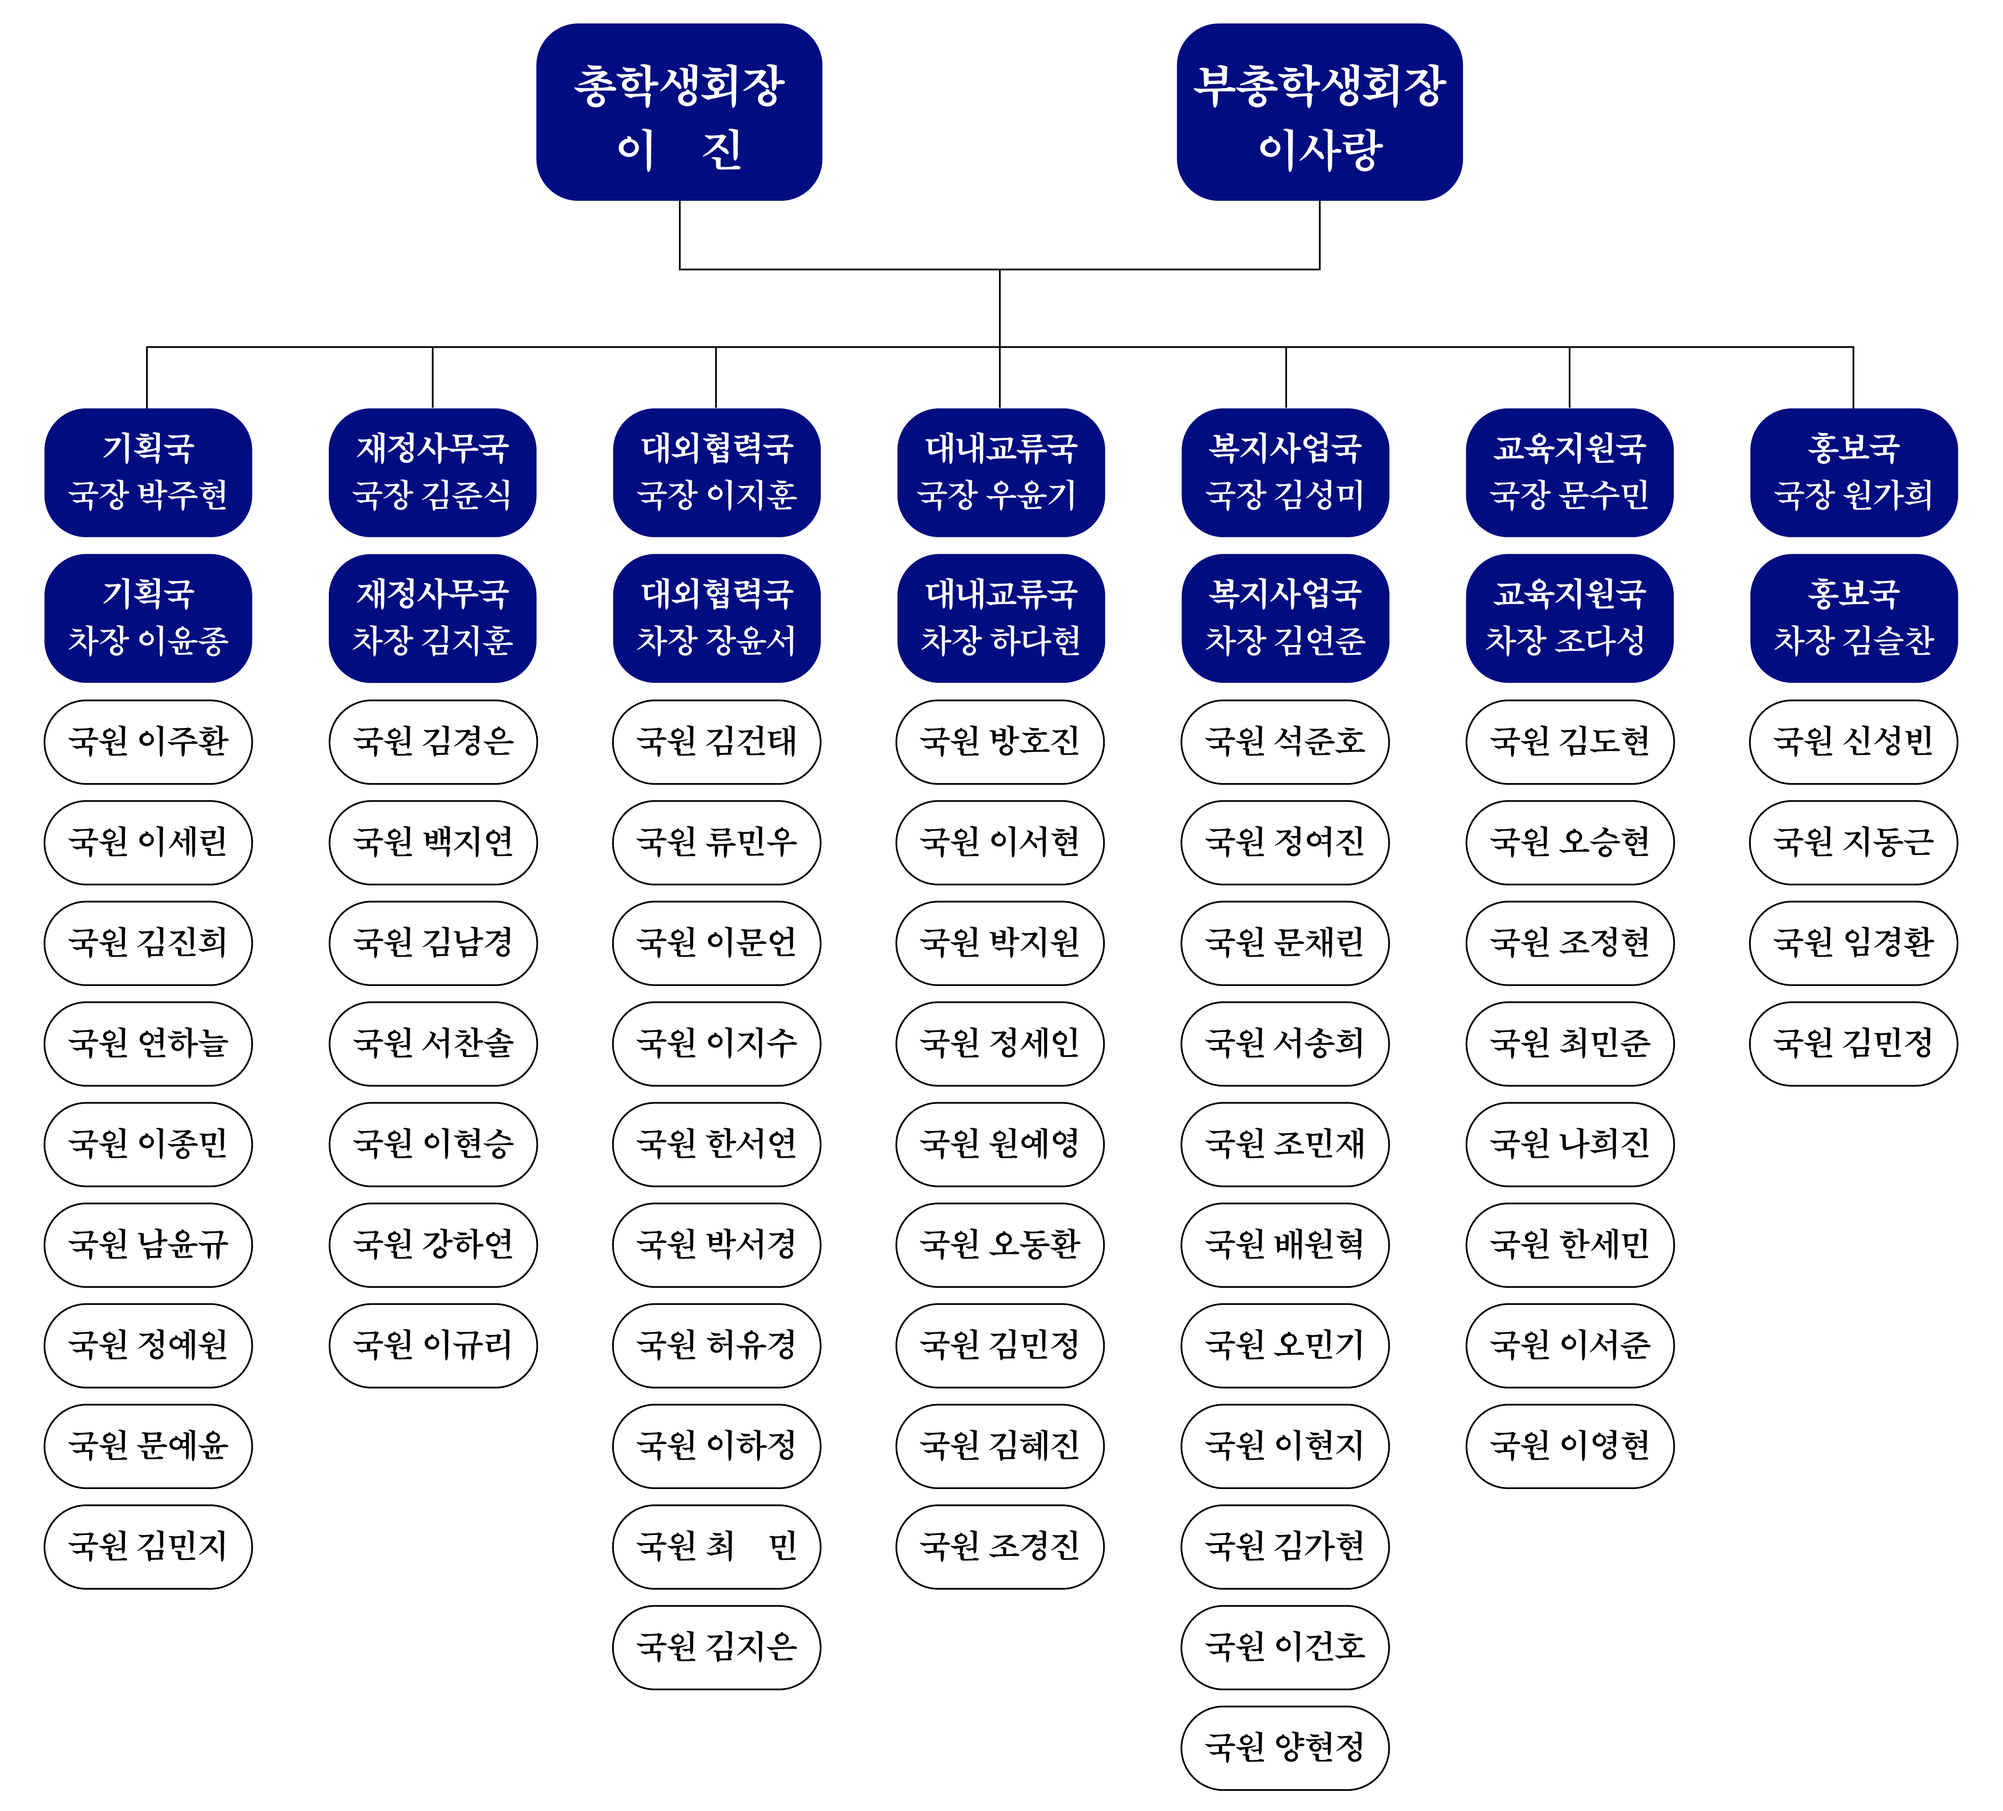
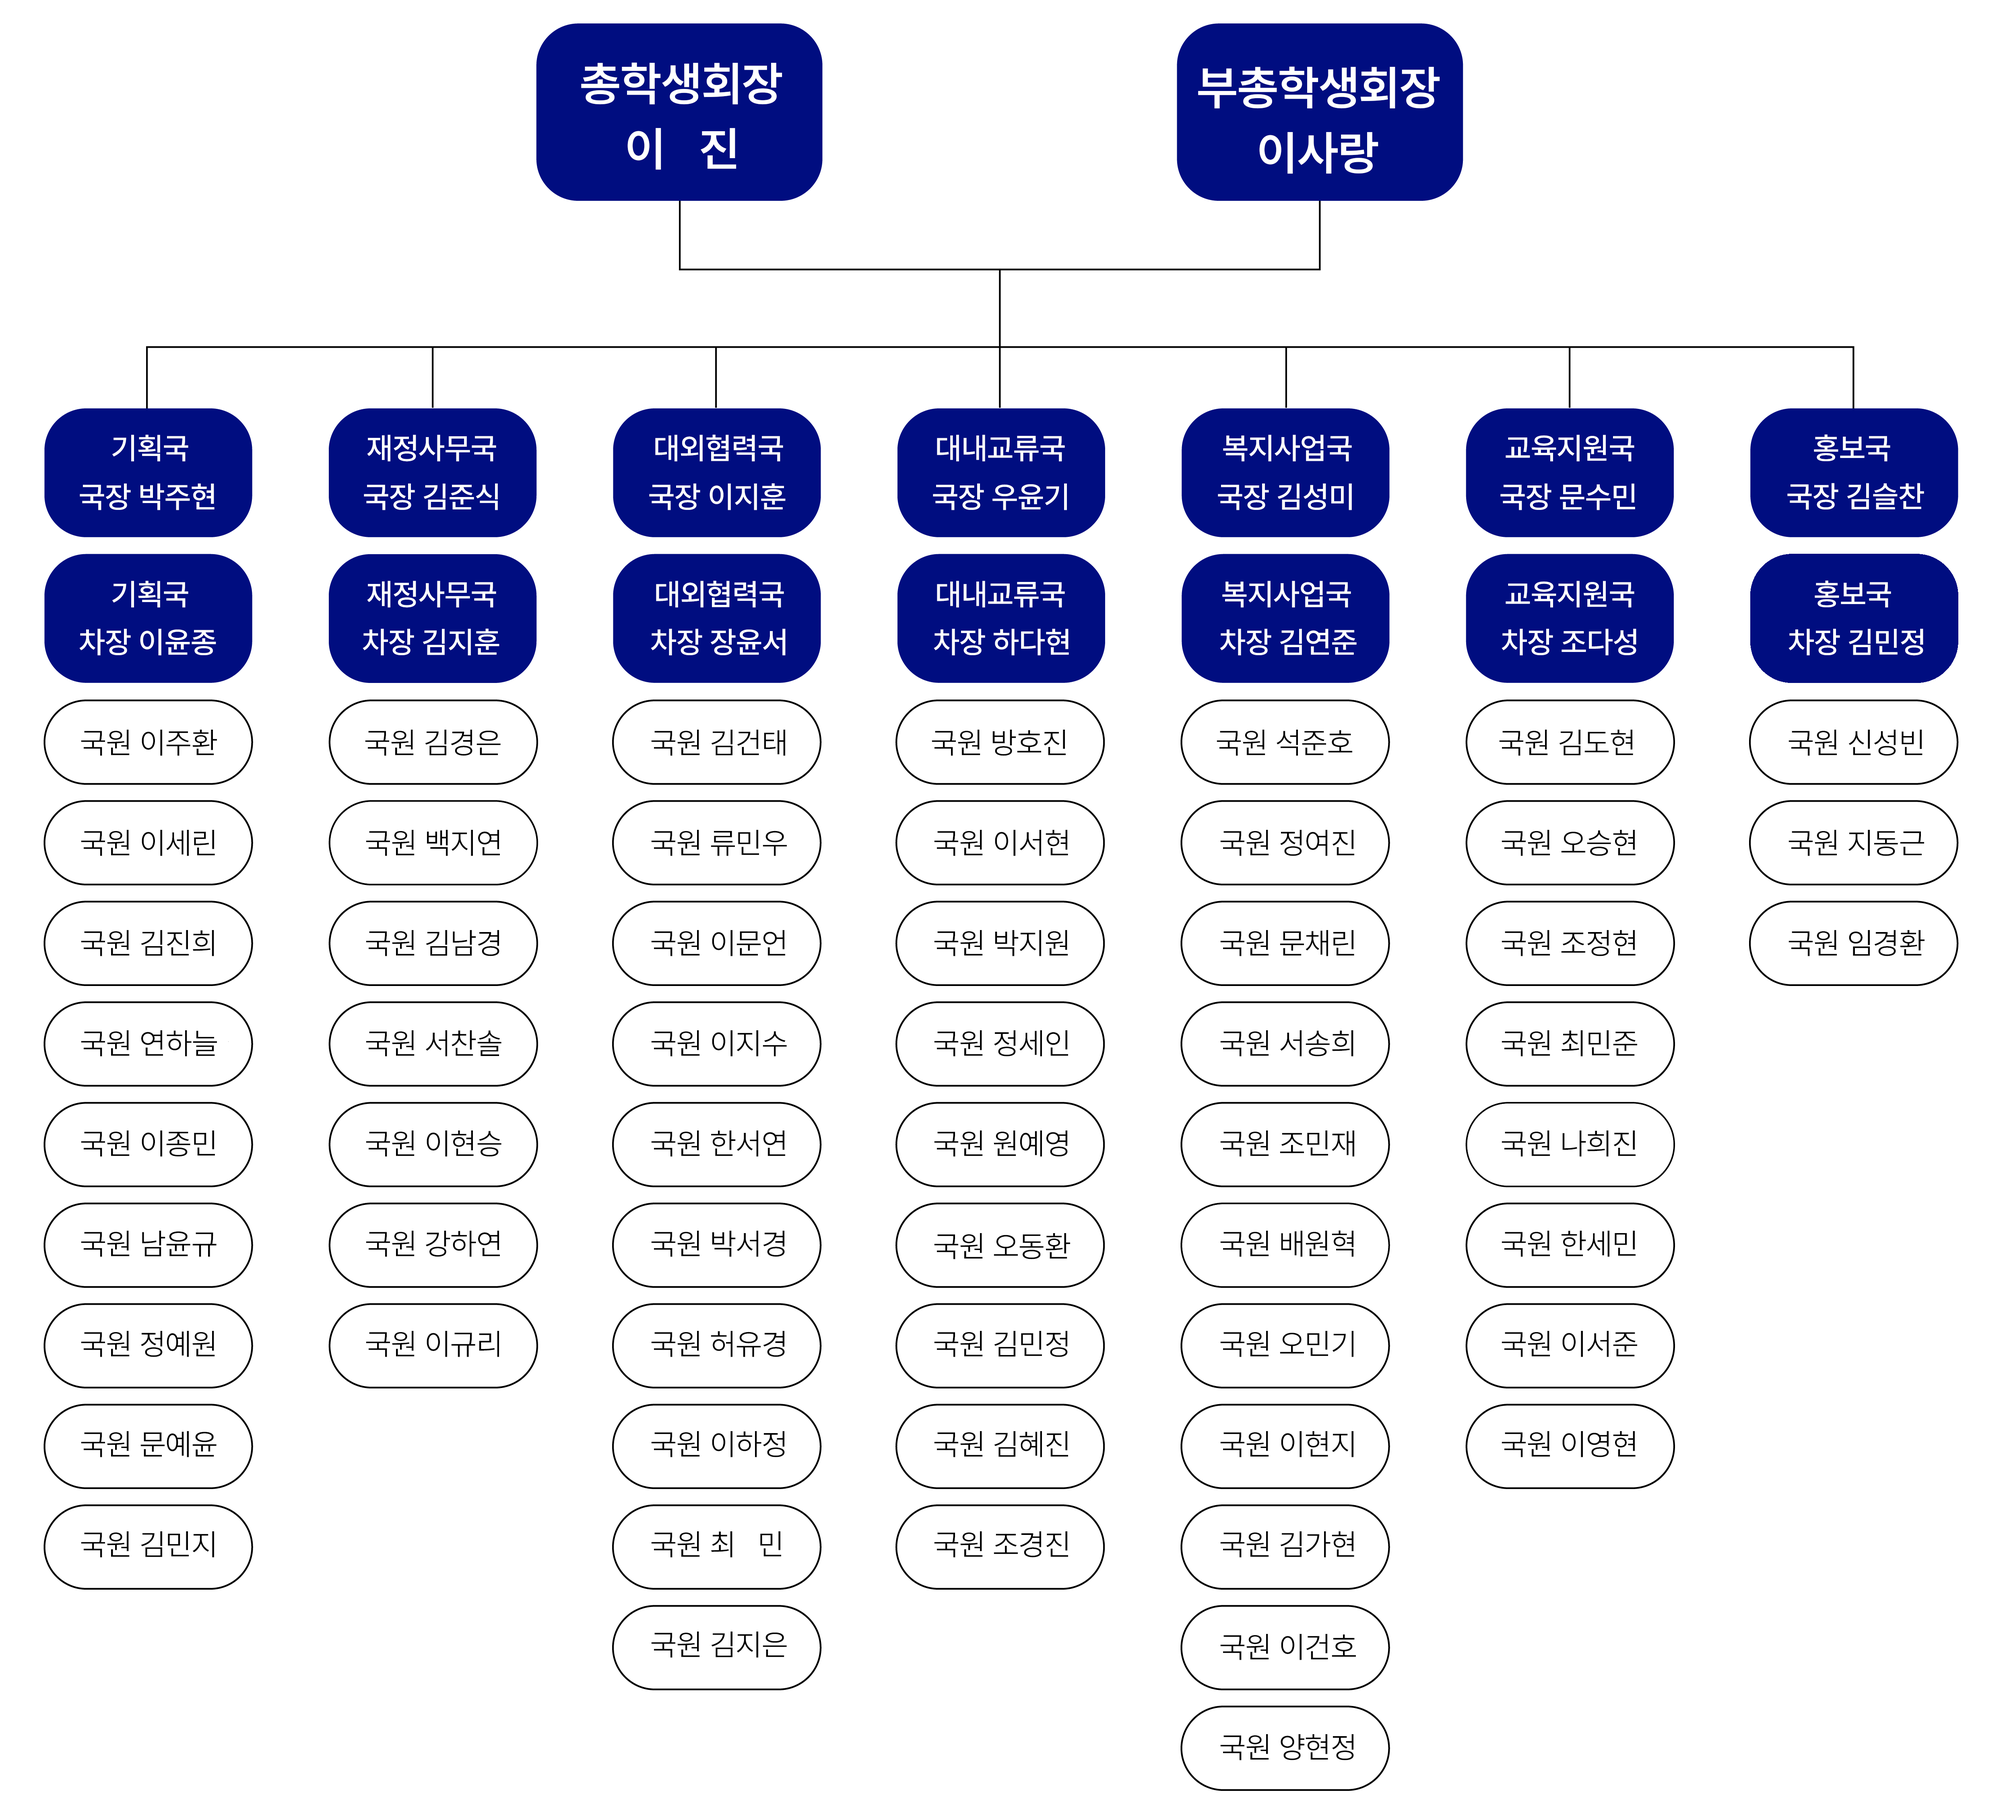
Refactor: organi chart, depart data refactoring

diff --git a/src/constants/data/DepartData.tsx b/src/constants/data/DepartData.tsx
@@ -11,8 +11,8 @@ import Img11 from "../../assets/profile/welhead.jpeg";
 import Img12 from "../../assets/profile/welsub.png";
 import Img13 from "../../assets/profile/fihead.jpeg";
 import Img14 from "../../assets/profile/fisub.jpg";
-import Img15 from "../../assets/profile/prohead.jpg";
-import Img16 from "../../assets/profile/prosub.png";
+import Img15 from "../../assets/profile/prohead.png";
+import Img16 from "../../assets/profile/prosub.jpeg";
 import Img17 from "../../assets/profile/songhee.jpeg";
 import Img18 from "../../assets/profile/hyun.jpeg";
 import Img19 from "../../assets/profile/gyuri.jpeg";
@@ -969,23 +969,23 @@ export const DepartData = [
     subItem: [
       {
         position: "국장",
-        name: "원가희",
-        major: "의류학전공 21",
+        name: "김슬찬",
+        major: "역사콘텐츠전공 22",
         img: Img15,
         alt: "img15",
         size: "rec",
         content:
-          "안녕하십니까, 총학생회 선[先] 홍보국 국장 원가희입니다.<br/>일을 아무리 잘 하더라도 학우분들에게 닿지 않는다면<br/>아무런 의미가 없습니다. 총학생회 선[先]과 상명대학교<br/>학우분들의 단단한 연결 다리가 되겠습니다.",
+          "안녕하십니까, 총학생회 선[先] 홍보국 국장 김슬찬입니다.<br/>긴 공백 끝에 제46대 총학생회 선[先]이 학우분들의 성원 덕분에 출범했습니다.<br/>홍보국 국장으로서 2023년 한 해동안 펼쳐질 상명대학교가 학교 구성원들에게,<br/>관심을 가져주시는 모든 분들에게 닿을 수 있도록 힘쓰겠습니다.",
       },
       {
         position: "차장",
-        name: "김슬찬",
-        major: "역사콘텐츠전공 22",
+        name: "김민정",
+        major: "국어교육과 22",
         img: Img16,
         alt: "img16",
         size: "rec",
         content:
-          "안녕하십니까, 총학생회 선[先] 홍보국 차장 김슬찬입니다.<br/>긴 공백 끝에 제46대 총학생회 선[先]이 학우분들의 성원 덕분에 출범했습니다.<br/>홍보국 차장으로서 2023년 한 해동안 펼쳐질 상명대학교가 학교 구성원들에게,<br/>관심을 가져주시는 모든 분들에게 닿을 수 있도록 힘쓰겠습니다.",
+          "안녕하십니까, 총학생회 선[先] 홍보국 차장 김민정입니다.<br/>상명대학교 학우들을 위해 열심히 일하겠습니다.",
       },
       {
         position: "국원",
@@ -1013,15 +1013,6 @@ export const DepartData = [
         alt: "img37",
         size: "squ",
         content: "안녕하십니까, 총학생회 선[先] 홍보국 국원 임경환입니다.",
-      },
-      {
-        position: "국원",
-        name: "김민정",
-        major: "국어교육과 22",
-        img: Img37,
-        alt: "img37",
-        size: "squ",
-        content: "안녕하십니까, 총학생회 선[先] 홍보국 국원 김민정입니다.",
       },
     ],
   },

diff --git a/src/constants/data/OrganiData.tsx b/src/constants/data/OrganiData.tsx
@@ -12,8 +12,8 @@ import Img11 from "../../assets/profile/welhead.jpeg";
 import Img12 from "../../assets/profile/welsub.png";
 import Img13 from "../../assets/profile/fihead.jpeg";
 import Img14 from "../../assets/profile/fisub.jpg";
-import Img15 from "../../assets/profile/prohead.jpg";
-import Img16 from "../../assets/profile/prosub.png";
+import Img15 from "../../assets/profile/prohead.png";
+import Img16 from "../../assets/profile/prosub.jpeg";
 import Img17 from "../../assets/profile/songhee.jpeg";
 import Img18 from "../../assets/profile/hyun.jpeg";
 import Img19 from "../../assets/profile/gyuri.jpeg";
@@ -667,16 +667,16 @@ export const PromotionData = [
     headItem: [
       {
         position: "국장",
-        name: "원가희",
-        major: "의류학전공 21",
+        name: "김슬찬",
+        major: "역사콘텐츠전공 22",
         img: Img15,
         alt: "img15",
         size: "rec",
       },
       {
         position: "차장",
-        name: "김슬찬",
-        major: "역사콘텐츠전공 22",
+        name: "김민정",
+        major: "국어교육과 22",
         img: Img16,
         alt: "img16",
         size: "rec",
@@ -707,13 +707,6 @@ export const PromotionData = [
           {
             name: "임경환",
             major: "국가안보학과 20",
-            img: Img37,
-            alt: "img37",
-            size: "squ",
-          },
-          {
-            name: "김민정",
-            major: "국어교육과 22",
             img: Img37,
             alt: "img37",
             size: "squ",
